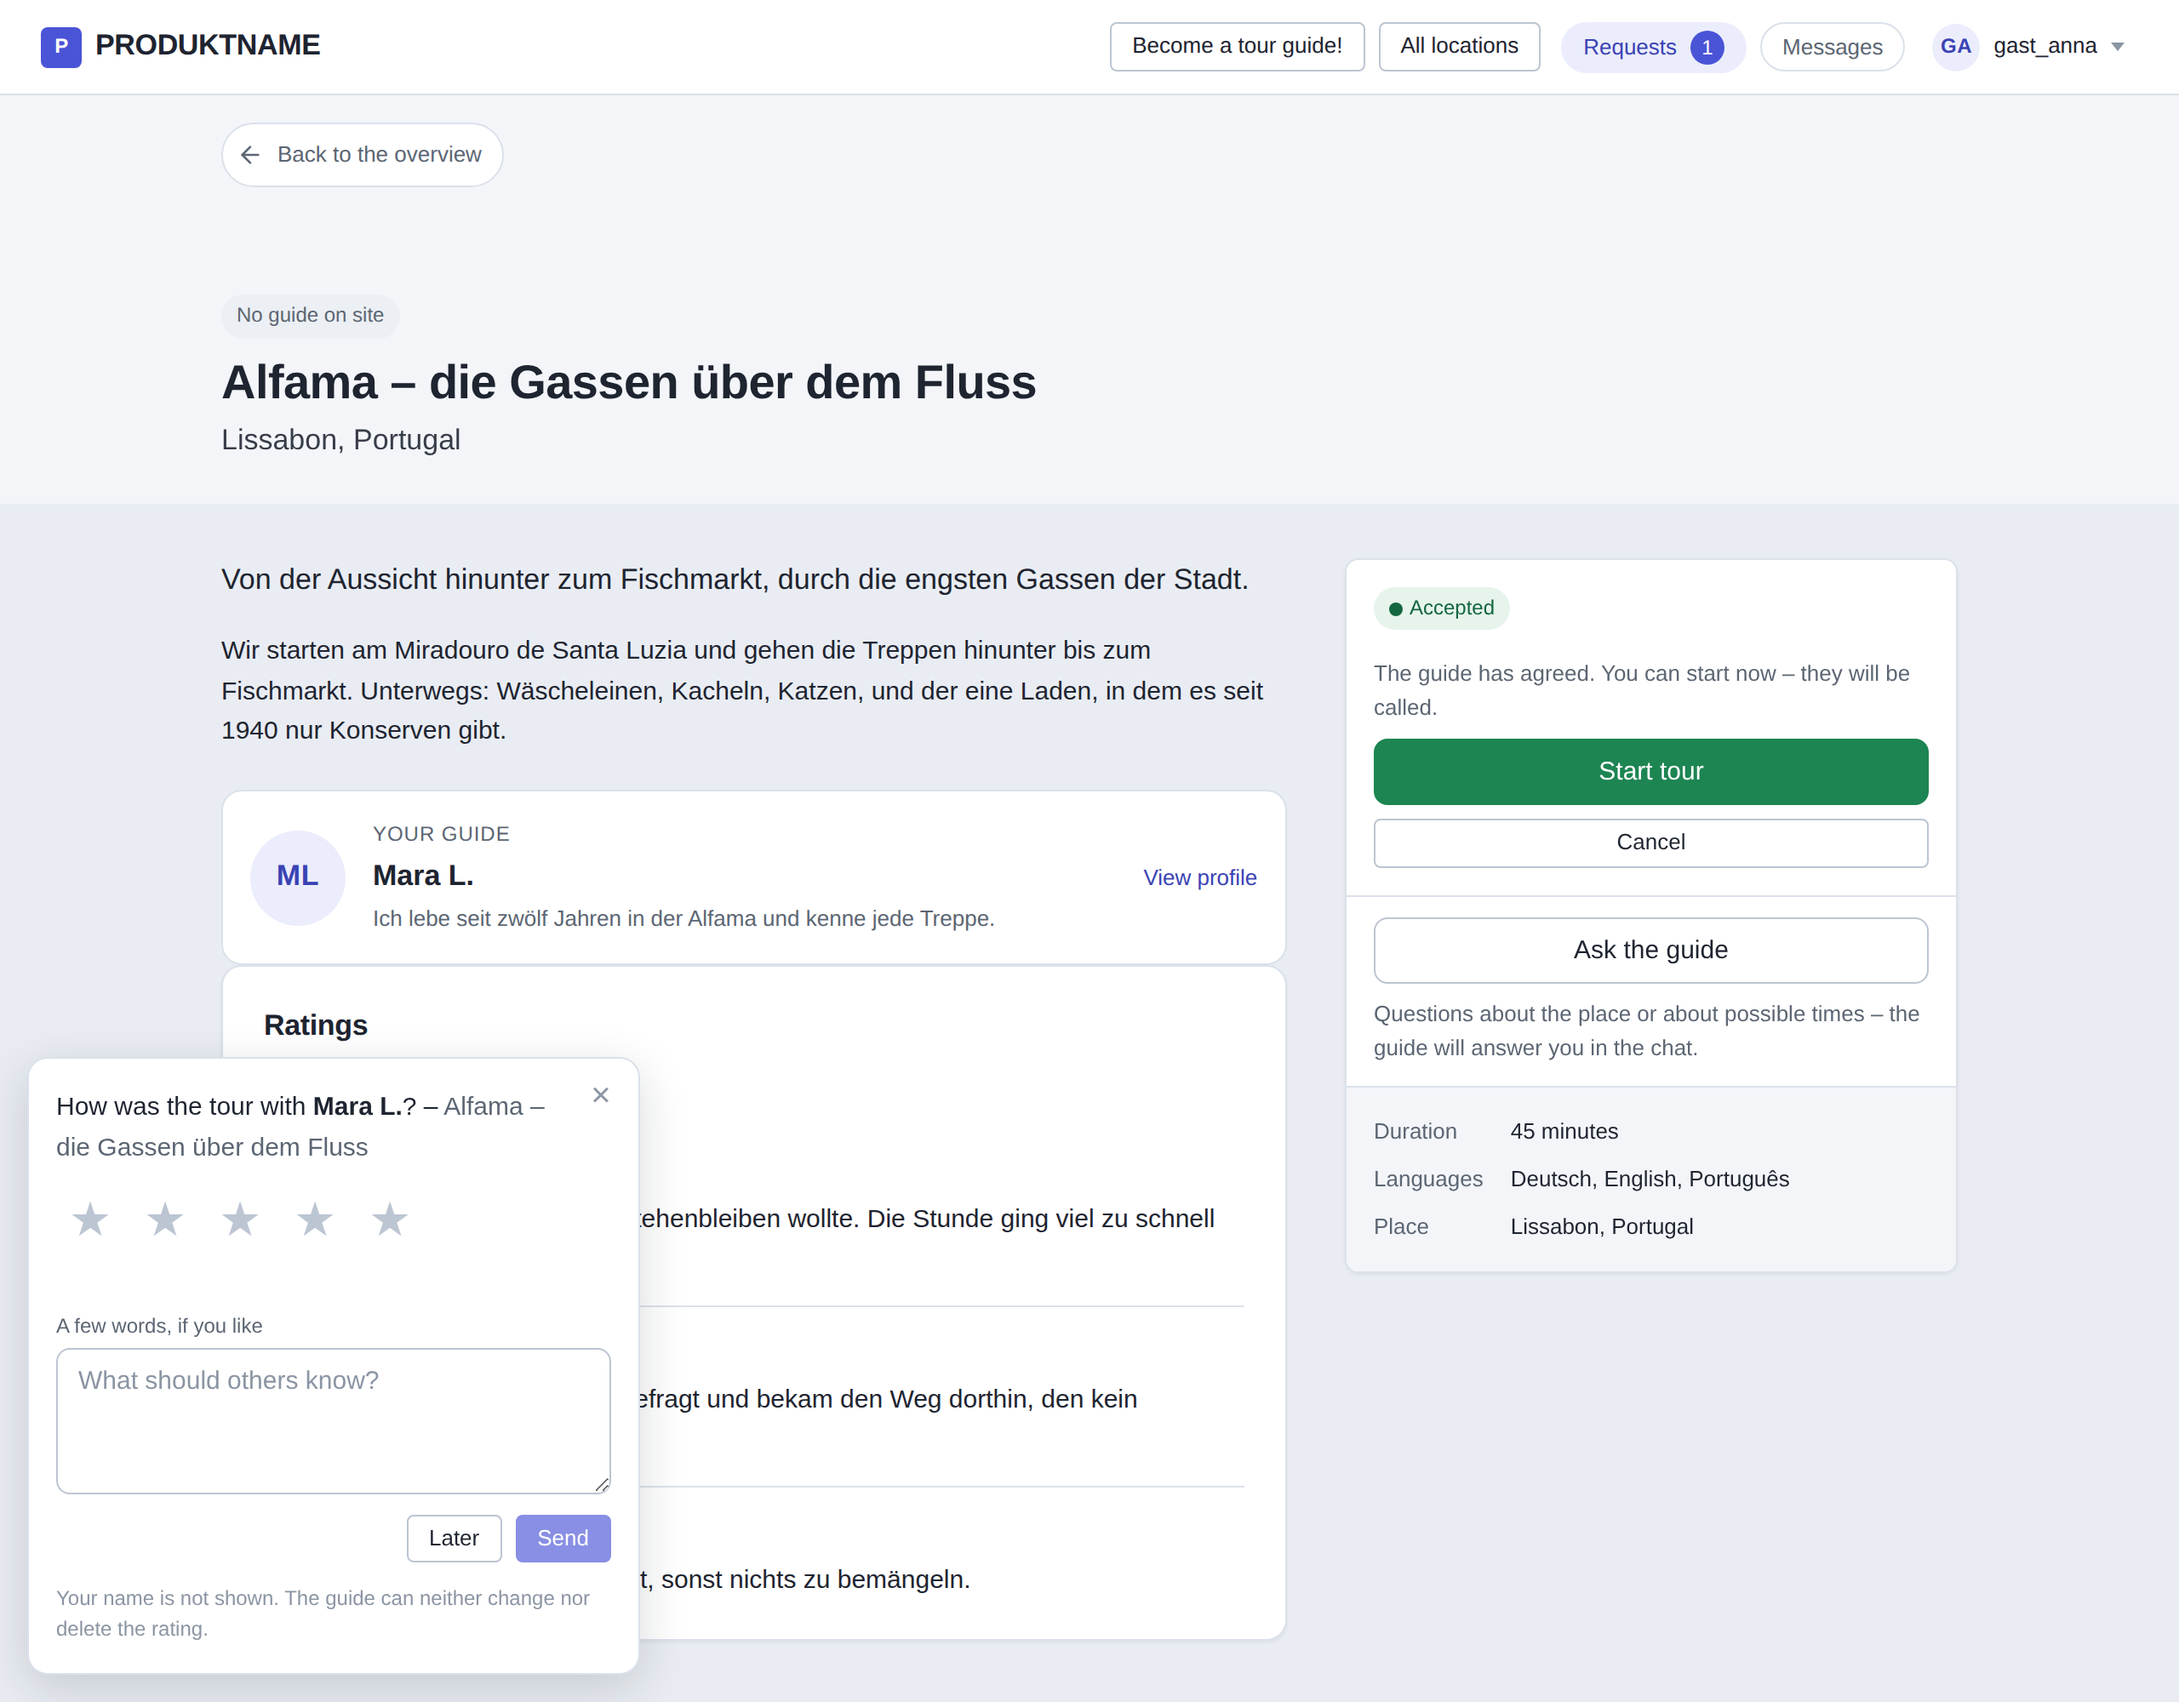
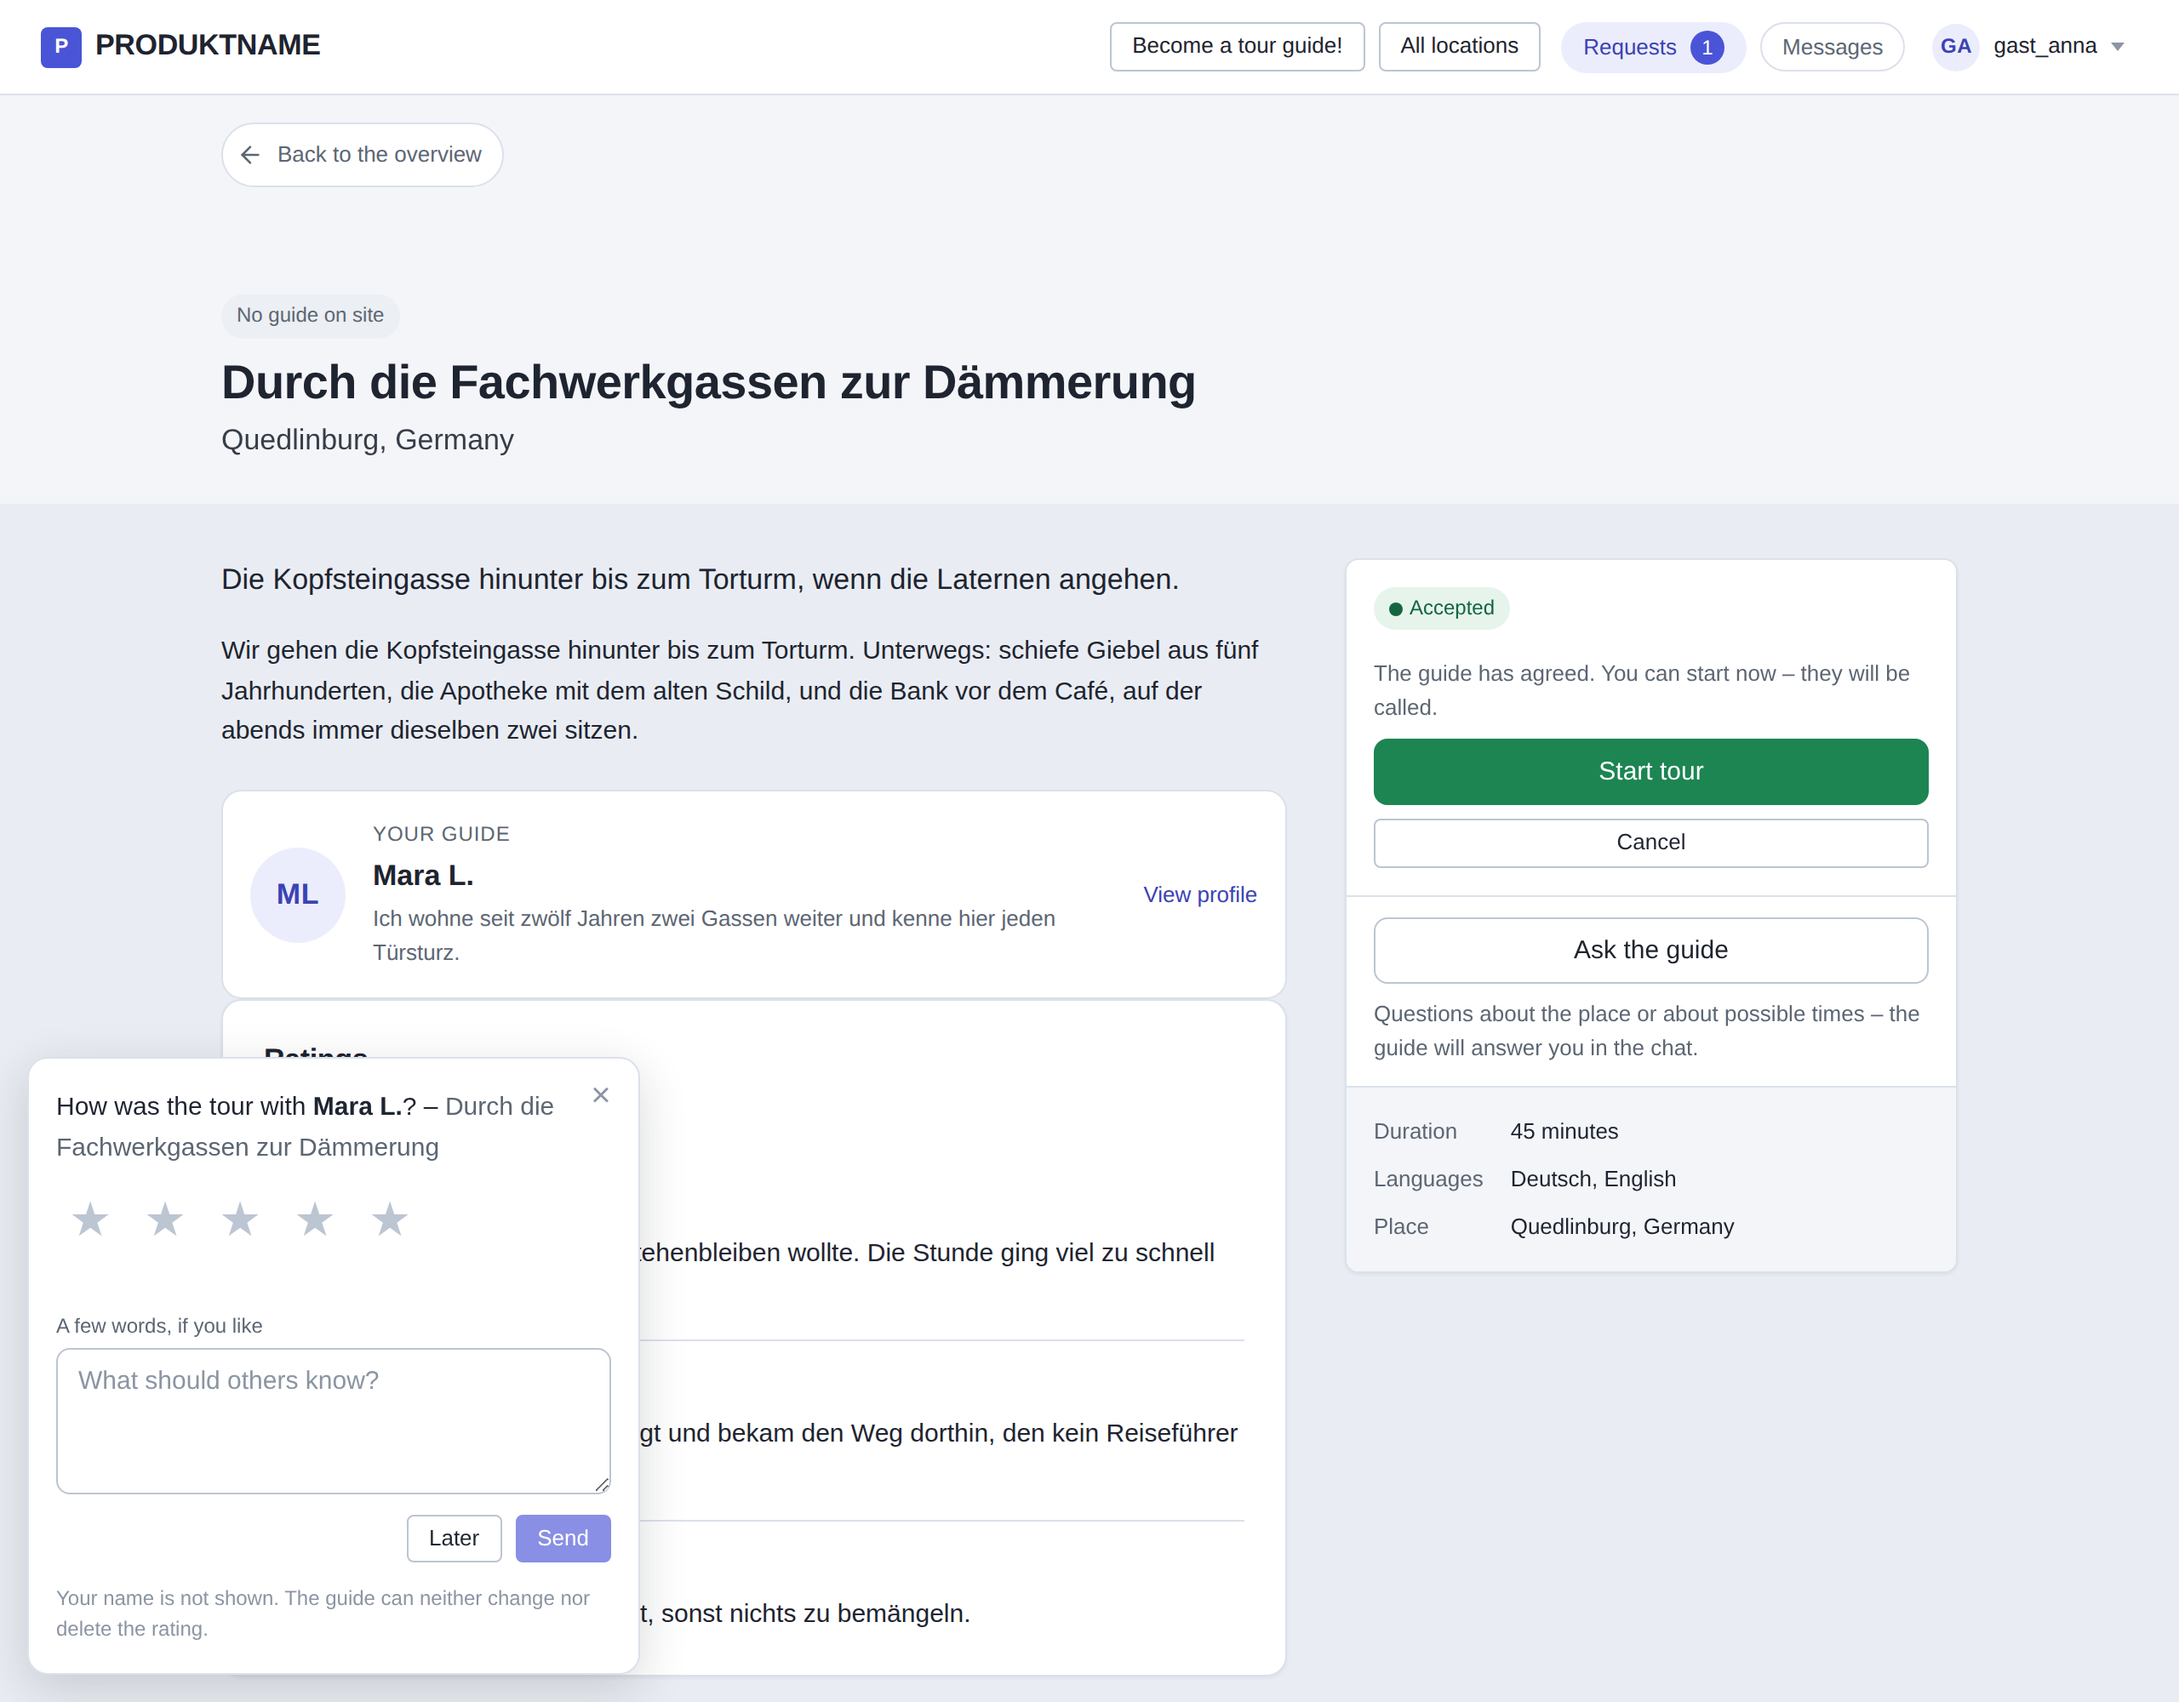
Der Standort zieht zum Bild - eine Fuehrung statt zweier
Auf der Landingpage stehen Standortseite und Anruf nebeneinander und sollen
dieselbe Fuehrung zeigen. Sie zeigten zwei: links die Alfama in Lissabon,
rechts eine deutsche Fachwerkgasse in der Daemmerung. Der Widerspruch stand
nirgends geschrieben, aber er war zu sehen - und eine Werbeseite, auf der
zwei Bilder nebeneinander verschiedene Geschichten erzaehlen, verliert genau
dort ihre Selbstverstaendlichkeit.

Jetzt fuehrt Mara L. durch die Fachwerkgassen von Quedlinburg, "die
Kopfsteingasse hinunter bis zum Torturm, wenn die Laternen angehen" - und
genau das ist auf dem Kamerabild daneben zu sehen. Der Guidetext, die
Bewertungen und die Sprachen sind mitgezogen.

Der Kommentar an den Demodaten sagt, dass Bild und Ort zusammengehoeren:
Wer eigene Inhalte einsetzt, tauscht beides zusammen. Das faellt sonst erst
auf, wenn die Seite schon steht.

UND EINE LUECKE, DIE DABEI AUFFIEL: Das Seed-Skript legte einen vorhandenen
Standort einfach stehen - obwohl sein eigener Kopf verspricht, dass ein
zweiter Aufruf die Zeilen auffrischt. Wer hier oben etwas aenderte, bekam
beim naechsten Lauf trotzdem die alten Daten und suchte den Fehler im
Aufnahmewerkzeug. Jetzt wird aktualisiert statt uebergangen - und nicht
geloescht und neu angelegt: An einem Standort haengen Bewertungen und
Anfragen, eine neue Kennung liesse ihre Fremdschluessel ins Leere zeigen.

Alle acht Aufnahmen neu, beide Sprachen. 410 Server- und 188
[…]

diff --git a/tools/landing_seed.php b/tools/landing_seed.php
@@ -148,18 +148,28 @@ $hash = seed_pwd('Demo!2345');
 // soll etwas los sein. Ein einziger Eintrag sieht aus wie ein Testsystem.
 // ---------------------------------------------------------------------------
 $guides = [
+    // DER ERSTE GUIDE IST DER, DER AUFGENOMMEN WIRD - und sein Ort ist so
+    // gewaehlt, dass er zum Kamerabild passt (LP_VIDEO in
+    // tools/landing_shots.js): eine deutsche Fachwerkaltstadt in der
+    // Daemmerung. Auf der Landingpage stehen Standortseite und Anruf
+    // nebeneinander und sollen dieselbe Fuehrung zeigen; eine portugiesische
+    // Gasse neben einem niedersaechsischen Marktplatz waeren zwei.
+    //
+    // WER EIGENE INHALTE EINSETZT, TAUSCHT BEIDES ZUSAMMEN: Bild und
+    // Standort gehoeren zusammen, und das faellt nur auf, wenn man es
+    // aufschreibt.
     [
         'name'  => 'mara_l',
         'mail'  => 'mara@example.org',
         'zeige' => 'Mara L.',
-        'ueber' => 'Ich lebe seit zwölf Jahren in der Alfama und kenne jede Treppe. Am liebsten zeige ich die Gassen, in denen noch Wäsche hängt.',
-        'sprachen' => 'de,en,pt',
-        'stadt' => ['Lissabon', 'PT'],
-        'zone'  => 'Europe/Lisbon',
-        'lat'   => 38.71150000, 'lon' => -9.12750000,
-        'titel' => 'Alfama – die Gassen über dem Fluss',
-        'text'  => 'Wir starten am Miradouro de Santa Luzia und gehen die Treppen hinunter bis zum Fischmarkt. Unterwegs: Wäscheleinen, Kacheln, Katzen, und der eine Laden, in dem es seit 1940 nur Konserven gibt.',
-        'kurz'  => 'Von der Aussicht hinunter zum Fischmarkt, durch die engsten Gassen der Stadt.',
+        'ueber' => 'Ich wohne seit zwölf Jahren zwei Gassen weiter und kenne hier jeden Türsturz. Am liebsten gehe ich los, wenn die Laternen angehen.',
+        'sprachen' => 'de,en',
+        'stadt' => ['Quedlinburg', 'DE'],
+        'zone'  => 'Europe/Berlin',
+        'lat'   => 51.78780000, 'lon' => 11.14140000,
+        'titel' => 'Durch die Fachwerkgassen zur Dämmerung',
+        'text'  => 'Wir gehen die Kopfsteingasse hinunter bis zum Torturm. Unterwegs: schiefe Giebel aus fünf Jahrhunderten, die Apotheke mit dem alten Schild, und die Bank vor dem Café, auf der abends immer dieselben zwei sitzen.',
+        'kurz'  => 'Die Kopfsteingasse hinunter bis zum Torturm, wenn die Laternen angehen.',
         'dauer' => 45,
     ],
     [
@@ -227,6 +237,15 @@ foreach ($guides as $g) {
     $vorhanden->execute([$uid]);
     $lid = (int)$vorhanden->fetchColumn();
 
+    // ANLEGEN ODER AUFFRISCHEN, und das Auffrischen ist der Teil, der
+    // vorher fehlte: Das Skript legte einen vorhandenen Standort einfach
+    // stehen. Wer hier oben etwas aenderte - einen Titel, einen Ort, das
+    // Kamerabild und den Ort dazu -, bekam beim naechsten Lauf trotzdem die
+    // alten Daten und suchte den Fehler im Aufnahmewerkzeug.
+    //
+    // GELOESCHT WIRD NICHT: An einem Standort haengen Bewertungen und
+    // Anfragen. Ein DELETE und ein neues INSERT gaeben ihm eine neue
+    // Kennung, und die Fremdschluessel zeigten ins Leere.
     if ($lid === 0) {
         $pdo->prepare(
             "INSERT INTO location
@@ -236,6 +255,15 @@ foreach ($guides as $g) {
         )->execute([$uid, $stadtId, $g['lat'], $g['lon'], $g['kurz'], $g['titel'],
                     $g['text'], $g['dauer'], $g['sprachen'], $g['zone']]);
         $lid = (int)$pdo->lastInsertId();
+    } else {
+        $pdo->prepare(
+            "UPDATE location
+                SET city_id = ?, latitude = ?, longitude = ?, description = ?,
+                    title = ?, description_long = ?, duration_minutes = ?,
+                    languages = ?, timezone = ?
+              WHERE id = ?"
+        )->execute([$stadtId, $g['lat'], $g['lon'], $g['kurz'], $g['titel'],
+                    $g['text'], $g['dauer'], $g['sprachen'], $g['zone'], $lid]);
     }
 
     $standortIds[$g['name']] = $lid;
@@ -313,7 +341,7 @@ $bewertungen = [
     ['kunde' => 'keiko_k',   'sterne' => 5, 'tage' => 12,
      'text'  => 'Sie ist stehengeblieben, wo ich stehenbleiben wollte. Die Stunde ging viel zu schnell vorbei.'],
     ['kunde' => 'youssef_m', 'sterne' => 5, 'tage' => 31,
-     'text'  => 'Ich hatte nach dem Fischmarkt gefragt und bekam den Weg dorthin, den kein Reiseführer aufschreibt.'],
+     'text'  => 'Ich hatte nach dem Torturm gefragt und bekam den Weg dorthin, den kein Reiseführer aufschreibt.'],
     ['kunde' => 'tobias_n',  'sterne' => 4, 'tage' => 54,
      'text'  => 'Die Verbindung hat einmal gehakt, sonst nichts zu bemängeln.'],
 ];
